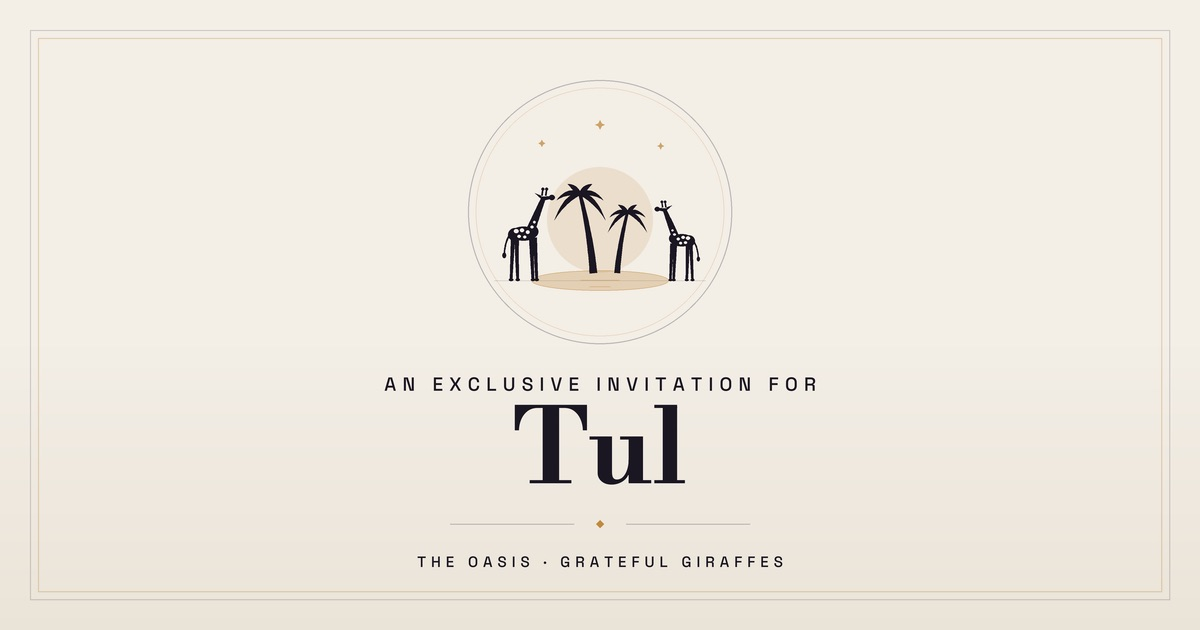
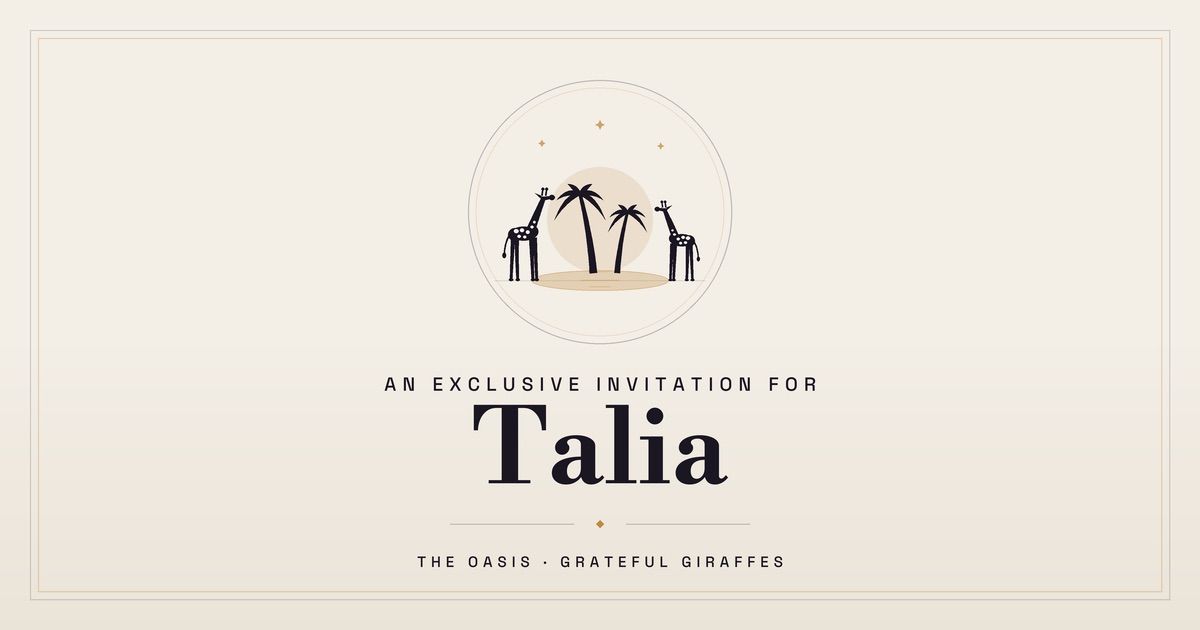
Talia's invitation card

Changed region(s): [[0.37, 0.6333, 0.6167, 0.7841]]

diff --git a/taliaf/index.html b/taliaf/index.html
@@ -3,28 +3,28 @@
 <head>
 <meta charset="utf-8">
 <meta name="viewport" content="width=device-width, initial-scale=1">
-<title>An Exclusive Invitation for Tul · The Oasis</title>
+<title>An Exclusive Invitation for Talia · The Oasis</title>
 <meta name="robots" content="noindex">
 <meta property="og:type" content="website">
 <meta property="og:site_name" content="The Oasis">
-<meta property="og:title" content="An Exclusive Invitation for Tul">
+<meta property="og:title" content="An Exclusive Invitation for Talia">
 <meta property="og:description" content="Your lifetime membership in the Grateful Giraffes, with a ticket to the Miracle of Light.">
-<meta property="og:url" content="https://grateful.gg/tulf/">
-<meta property="og:image" content="https://grateful.gg/tulf/cover.jpg">
-<meta property="og:image:secure_url" content="https://grateful.gg/tulf/cover.jpg">
+<meta property="og:url" content="https://grateful.gg/taliaf/">
+<meta property="og:image" content="https://grateful.gg/taliaf/cover.jpg">
+<meta property="og:image:secure_url" content="https://grateful.gg/taliaf/cover.jpg">
 <meta property="og:image:type" content="image/jpeg">
 <meta property="og:image:width" content="1200">
 <meta property="og:image:height" content="630">
-<meta property="og:image:alt" content="An Exclusive Invitation for Tul">
+<meta property="og:image:alt" content="An Exclusive Invitation for Talia">
 <meta name="twitter:card" content="summary_large_image">
-<meta name="twitter:title" content="An Exclusive Invitation for Tul">
+<meta name="twitter:title" content="An Exclusive Invitation for Talia">
 <meta name="twitter:description" content="Your lifetime membership in the Grateful Giraffes, with a ticket to the Miracle of Light.">
-<meta name="twitter:image" content="https://grateful.gg/tulf/cover.jpg">
-<meta http-equiv="refresh" content="0; url=https://app.grateful.gg/invite?code=GIGI-TUL-720&amp;name=Tul">
-<script>location.replace("https://app.grateful.gg/invite?code=GIGI-TUL-720&name=Tul");</script>
-<link rel="canonical" href="https://app.grateful.gg/invite?code=GIGI-TUL-720&amp;name=Tul">
+<meta name="twitter:image" content="https://grateful.gg/taliaf/cover.jpg">
+<meta http-equiv="refresh" content="0; url=https://app.grateful.gg/invite?code=GIGI-TUL-720&amp;name=Talia">
+<script>location.replace("https://app.grateful.gg/invite?code=GIGI-TUL-720&name=Talia");</script>
+<link rel="canonical" href="https://app.grateful.gg/invite?code=GIGI-TUL-720&amp;name=Talia">
 </head>
 <body style="margin:0;background:#f3eee6;color:#1a1622;font-family:Georgia,serif;display:flex;align-items:center;justify-content:center;min-height:100vh;padding:24px">
-  <p style="text-align:center">Opening your invitation&hellip;<br><a href="https://app.grateful.gg/invite?code=GIGI-TUL-720&amp;name=Tul">Continue</a></p>
+  <p style="text-align:center">Opening your invitation&hellip;<br><a href="https://app.grateful.gg/invite?code=GIGI-TUL-720&amp;name=Talia">Continue</a></p>
 </body>
 </html>
